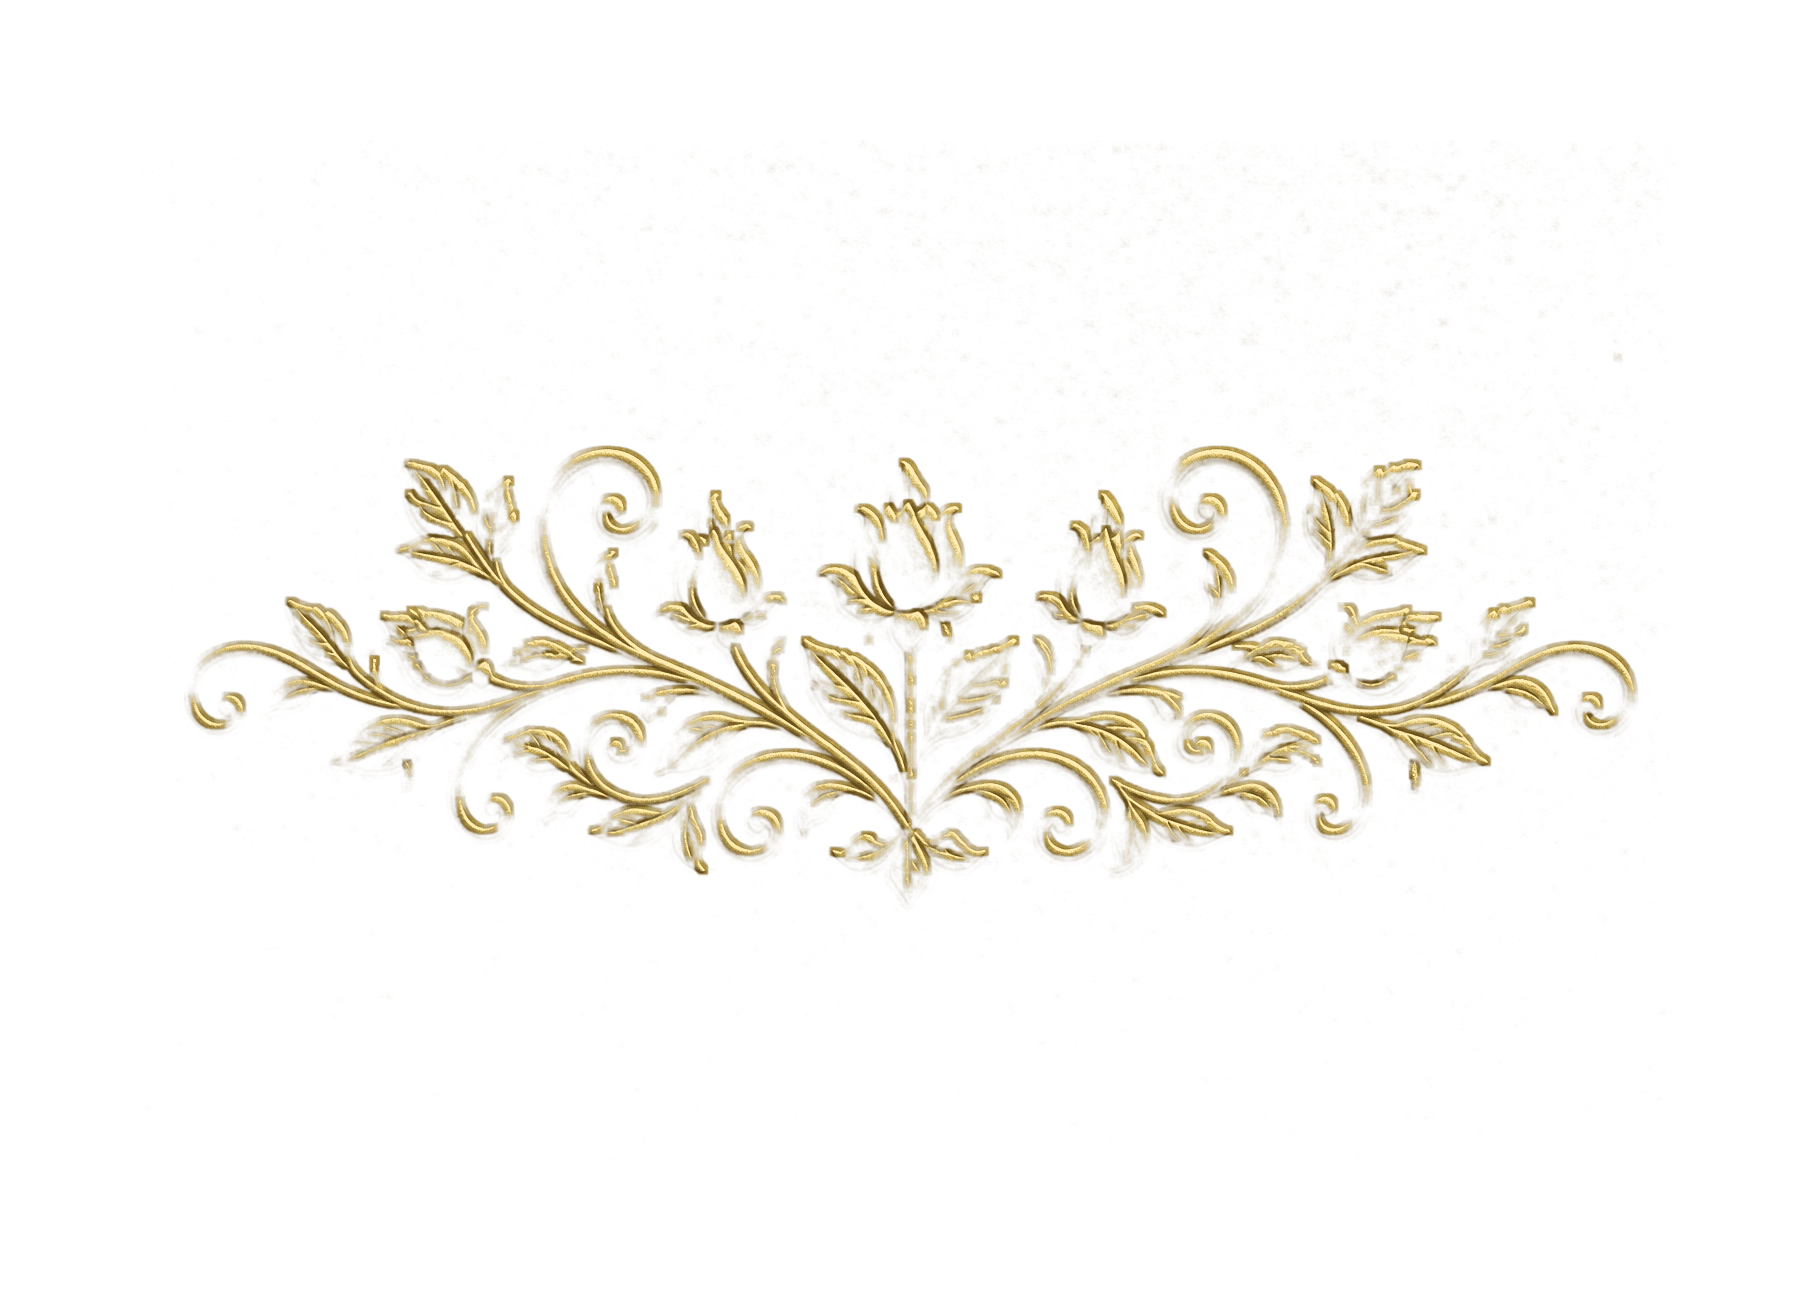
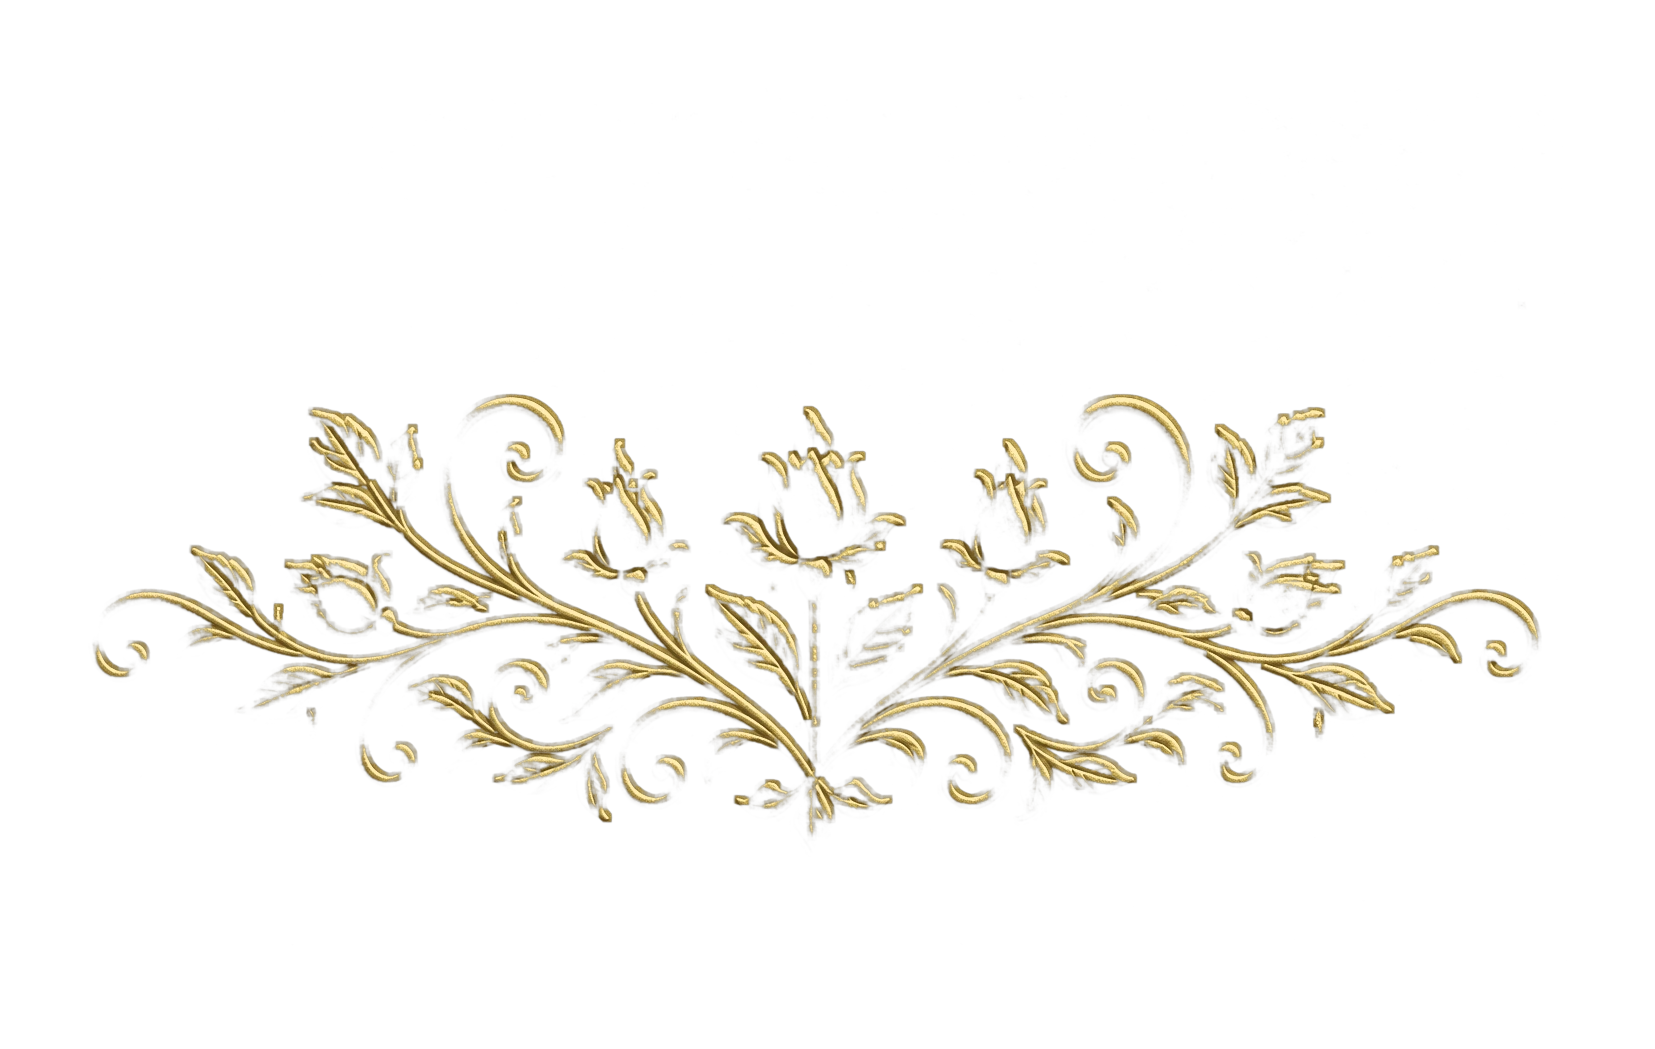
fix: enlarge embossed florals on envelope flaps
Grow design safe zones and tighten asset padding so motifs cover
more of each triangular flap without clipping.

Changed region(s): [[0.0616, 0.3356, 0.9553, 0.7931], [0.0616, 0.6101, 0.0924, 0.6406]]

diff --git a/app/globals.css b/app/globals.css
@@ -336,64 +336,64 @@
       );
   }
 
-  /* Safe zones: full motif stays inside each triangular flap */
+  /* Safe zones: larger coverage while keeping motifs inside each triangle */
   .envelope-design-top {
-    left: 28%;
-    right: 28%;
-    top: 4%;
-    height: 20%;
+    left: 26%;
+    right: 26%;
+    top: 1%;
+    height: 25%;
   }
 
   .envelope-design-bottom {
-    left: 28%;
-    right: 28%;
-    bottom: 4%;
-    height: 20%;
+    left: 26%;
+    right: 26%;
+    bottom: 1%;
+    height: 25%;
   }
 
   .envelope-design-left {
-    top: 28%;
-    bottom: 28%;
-    left: 3%;
+    top: 23%;
+    bottom: 23%;
+    left: 1%;
     width: 22%;
   }
 
   .envelope-design-right {
-    top: 28%;
-    bottom: 28%;
-    right: 3%;
+    top: 23%;
+    bottom: 23%;
+    right: 1%;
     width: 22%;
   }
 
   @media (max-aspect-ratio: 3/4) {
     .envelope-design-top,
     .envelope-design-bottom {
-      left: 24%;
-      right: 24%;
-      height: 17%;
+      left: 22%;
+      right: 22%;
+      height: 22%;
     }
 
     .envelope-design-left,
     .envelope-design-right {
-      top: 26%;
-      bottom: 26%;
-      width: 24%;
+      top: 20%;
+      bottom: 20%;
+      width: 20%;
     }
   }
 
   @media (min-aspect-ratio: 16/10) {
     .envelope-design-top,
     .envelope-design-bottom {
-      left: 32%;
-      right: 32%;
-      height: 24%;
+      left: 28%;
+      right: 28%;
+      height: 27%;
     }
 
     .envelope-design-left,
     .envelope-design-right {
-      top: 30%;
-      bottom: 30%;
-      width: 16%;
+      top: 24%;
+      bottom: 24%;
+      width: 18%;
     }
   }
 
